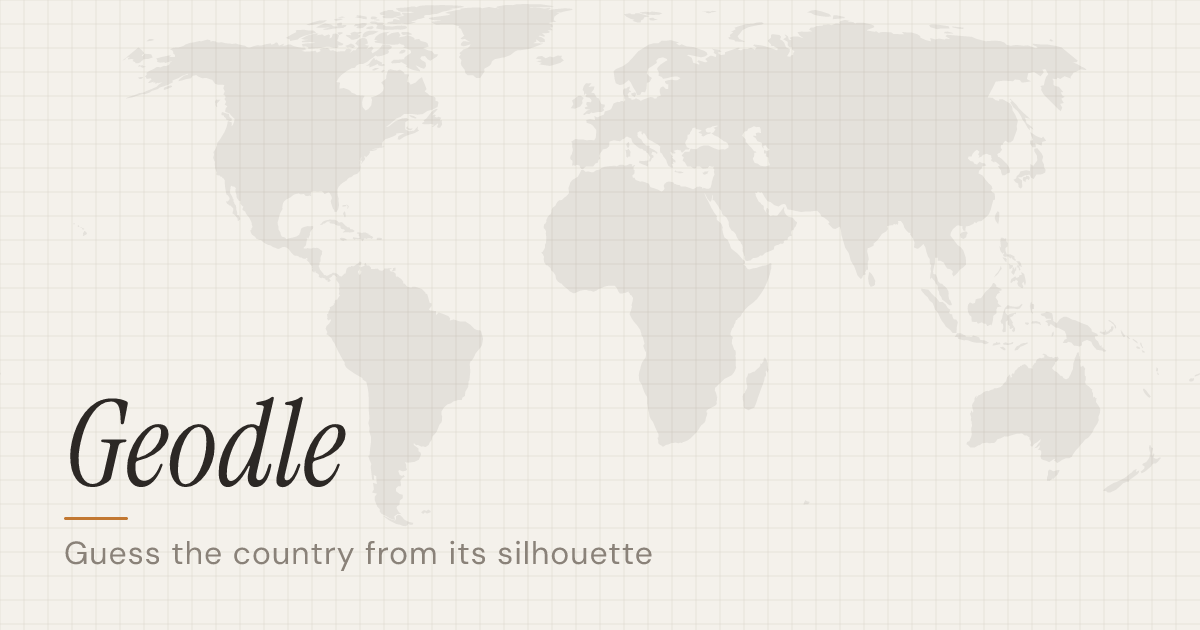
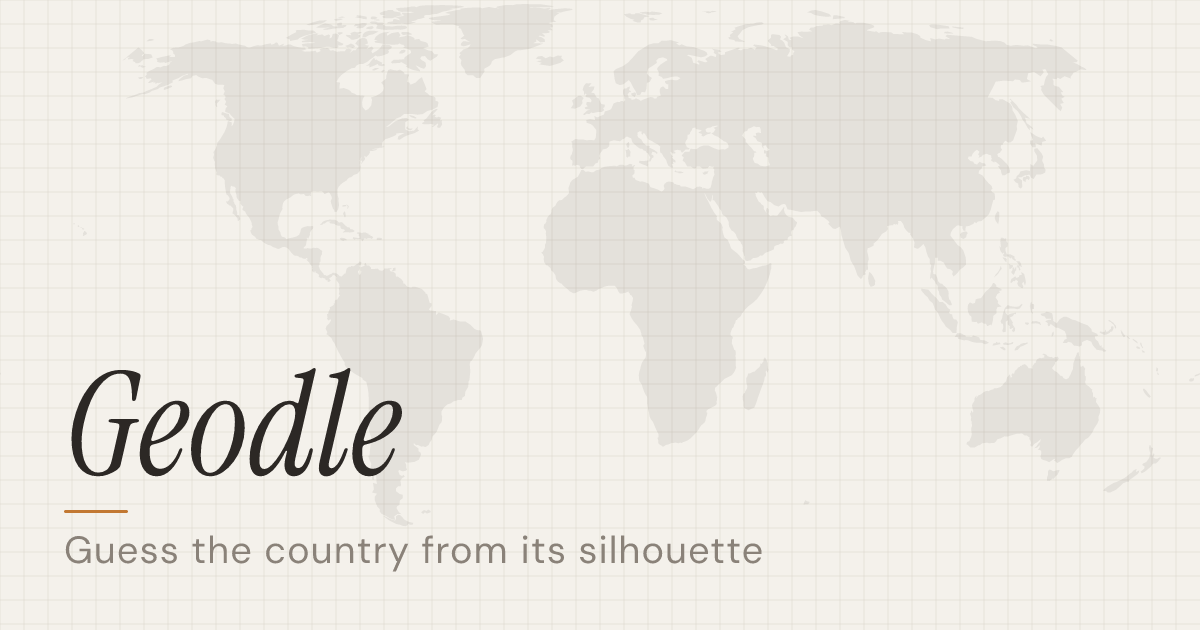
bump OG title to 144px, subtitle to 38px

Changed region(s): [[0.0617, 0.573, 0.6475, 0.9048]]

diff --git a/data/scripts/generate-og.tsx b/data/scripts/generate-og.tsx
@@ -99,7 +99,7 @@ function OgImage({ worldMapSrc }: { worldMapSrc: string }) {
         <div
           style={{
             fontFamily: "Instrument Serif",
-            fontSize: "120px",
+            fontSize: "144px",
             fontStyle: "italic",
             color: "#2c2825",
             lineHeight: 1,
@@ -118,7 +118,7 @@ function OgImage({ worldMapSrc }: { worldMapSrc: string }) {
         <div
           style={{
             fontFamily: "DM Sans",
-            fontSize: "32px",
+            fontSize: "38px",
             color: "#8a8279",
             letterSpacing: "0.03em",
           }}
